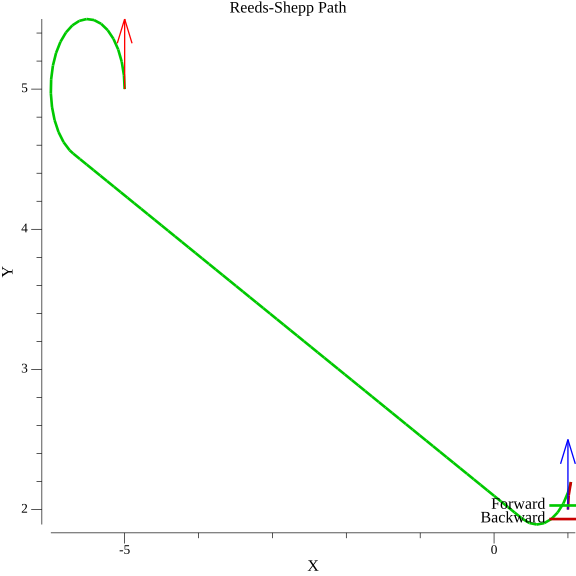
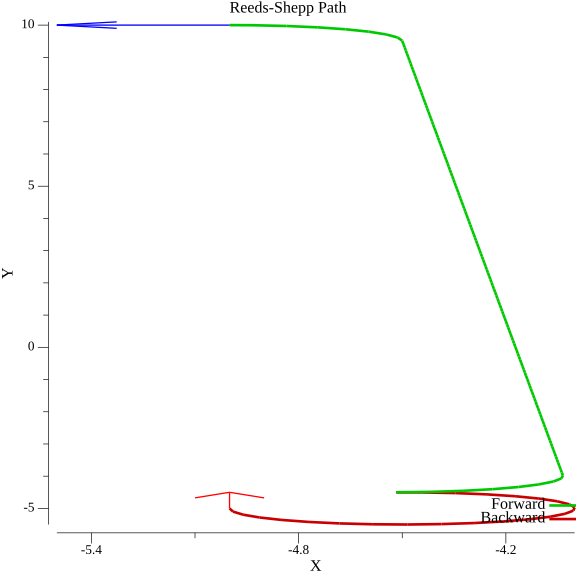
demo playground

diff --git a/demo/main.go b/demo/main.go
@@ -57,8 +57,8 @@ func plotArrow(p *plot.Plot, x, y, yaw float64, isStart bool) {
 }
 
 func main() {
-	startX, startY, startYaw := -5.0, 5.0, reedsshepp.Deg2rad(90)
-	endX, endY, endYaw := 1.0, 2.0, reedsshepp.Deg2rad(90)
+	startX, startY, startYaw := -5.0, -5.0, reedsshepp.Deg2rad(-270)
+	endX, endY, endYaw := -5.0, 10.0, reedsshepp.Deg2rad(-180)
 	maxCurvature := 2.0
 	stepSize := 0.1
 
